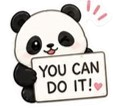
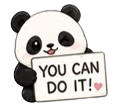
terminacion de maquetado de addTask

Changed region(s): [[0.0769, 0.0268, 0.9231, 0.9375], [0.7179, 0.0, 0.9231, 0.1875], [0.1026, 0.1071, 0.1538, 0.1607]]

diff --git a/src/components/addTask/addTask.module.css b/src/components/addTask/addTask.module.css
@@ -1,6 +1,91 @@
-*{
-    margin: 0;
-    padding: 0;
-    box-sizing: border-box;
+* {
+  margin: 0;
+  padding: 0;
+  box-sizing: border-box;
 }
 
+.headerAdd {
+  width: 100%;
+  height: 180px;
+  display: flex;
+  justify-content: center;
+  align-items: center;
+  box-shadow: 0px 0px 15px 5px #4e3821bd;
+}
+
+.logoBambooAdd {
+  width: 260px;
+}
+
+/*Section*/
+
+.sectionAdd {
+  width: 100%;
+  height: 480px;
+  display: flex;
+  box-shadow: 0px 0px 15px 5px #4e3821bd;
+}
+
+.textArea {
+  width: 50%;
+  display: flex;
+  justify-content: center;
+  align-items: center;
+}
+
+.addtarea {
+  width: 80%;
+  height: 80%;
+  padding: 20px;
+  border: 3px solid #f4b6c2;
+  font-family: "Fredoka", sans-serif;
+  font-size: 25px;
+  color: #4a4a4a;
+}
+
+.addtarea:focus {
+  outline-color: #f4b6c2;
+}
+
+.contenedorButtonAdd {
+  width: 50%;
+  display: flex;
+  flex-direction: column;
+  justify-content: center;
+  align-items: center;
+  gap: 20px;
+}
+
+.buttonAddTarea {
+  width: 250px;
+  height: 50px;
+  font-family: "Fredoka", sans-serif;
+  font-size: 25px;
+  font-weight: bold;
+  border: none;
+  border-radius: 30px;
+  cursor: pointer;
+  color: #4e3821;
+  background-color: #ebb988;
+  box-shadow: 0 2px 6px rgba(0, 0, 0, 0.473);
+  transition: all 0.2s ease;
+}
+
+.buttonAddTarea:hover {
+  background-color: #ebb988;
+  border: none;
+  box-shadow: 0 4px 10px rgba(0, 0, 0, 0.473);
+  transform: translateY(-1px);
+}
+
+.pandaPuedesHacerlo {
+  width: 80%;
+  height: 50%;
+  display: flex;
+  justify-content: center;
+  align-items: center;
+}
+
+.imgPandaPuedes {
+  width: 200px;
+}

diff --git a/src/components/addTask/addTask.jsx b/src/components/addTask/addTask.jsx
@@ -1,14 +1,40 @@
 import styles from "./addTask.module.css";
+import bambooTask from "../../assets/bambooTask.png";
+import tupuedesPanda from "../../assets/tupuedesPanda.png";
 
-function AddTask(){
-return (
+function AddTask() {
+  return (
     <>
-   <header className={styles.headerAdd}>
-      <img className={styles.logoBambooAdd} src={bambooTask} alt="logo panda feliz" />
-    </header>
-     
+      <header className={styles.headerAdd}>
+        <img
+          className={styles.logoBambooAdd}
+          src={bambooTask}
+          alt="logo panda feliz"
+        />
+      </header>
+
+      <section className={styles.sectionAdd}>
+        <div className={styles.textArea}>
+          <textarea
+            className={styles.addtarea}
+            placeholder="Escribe tu tarea"
+            maxLength={100}
+            required
+          ></textarea>
+        </div>
+        <div className={styles.contenedorButtonAdd}>
+          <div className={styles.pandaPuedesHacerlo}>
+            <img
+              className={styles.imgPandaPuedes}
+              src={tupuedesPanda}
+              alt="panda Tu puedes hacerlo"
+            />
+          </div>
+          <button className={styles.buttonAddTarea}>Agregar Tarea</button>
+        </div>
+      </section>
     </>
-)
+  );
 }
 
 export default AddTask;

diff --git a/src/components/home/home.module.css b/src/components/home/home.module.css
@@ -18,7 +18,6 @@
   display: flex;
   justify-content: center;
   align-items: center;
-  padding: 0px 50px 0px 0px;
   box-shadow: 0px 0px 15px 5px #4e3821bd;
 }
 